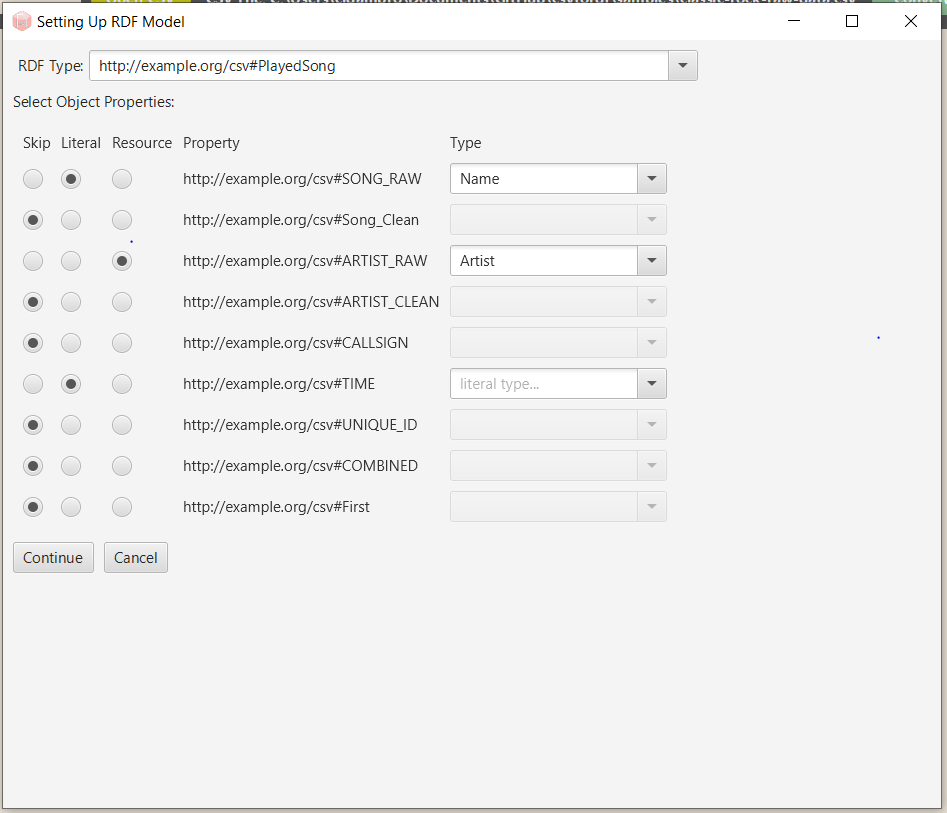
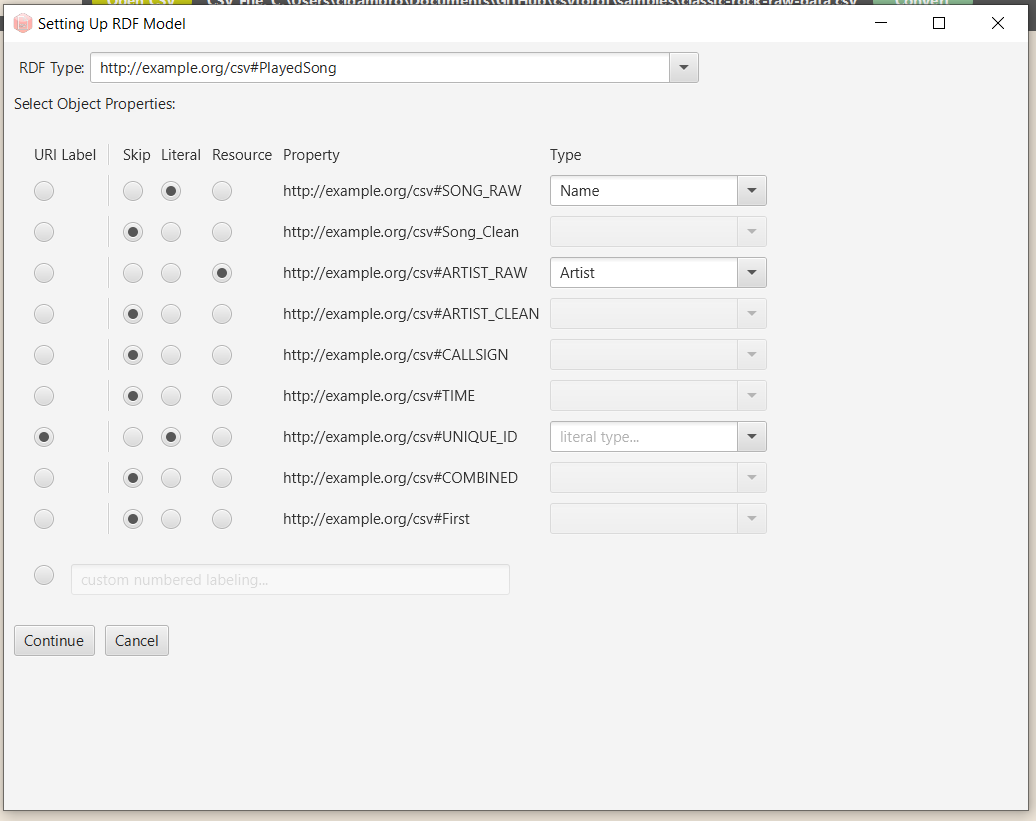
Allow custom URIs
Allow defining a property to be the URI, or a custom
numbering label instead of "res".
Updated README accordingly.

diff --git a/src/csvtordf/main/CsvToRdf.java b/src/csvtordf/main/CsvToRdf.java
@@ -60,11 +60,13 @@ class PropertyMetadata {
   public final RDFDatatype literalType;
   public final String objectType;
   public boolean isSkipped;
+  public boolean useAsLabel;
   public PropertyMetadata (boolean isLiteral, RDFDatatype literalType, String objectType) {
     this.isLiteral = isLiteral;
     this.literalType = literalType;
     this.objectType = objectType;
     this.isSkipped = false;
+    this.useAsLabel = false;
   }
 }
 
@@ -76,16 +78,18 @@ class PropertyMetadata {
 class MultiThreadCsvProcessor implements Callable<Void> {
   private final String[] lines;
   private final String prefix;
+  private final String label;
   private final int startNum, endNum;
   private Model model;
   private final ArrayList<Property> properties;
   private final ArrayList<PropertyMetadata> propData;
   private final String rdfType;
 
-  public MultiThreadCsvProcessor(Model model, String prefix, ArrayList<Property> properties, ArrayList<PropertyMetadata> propData, String rdfType,
+  public MultiThreadCsvProcessor(Model model, String prefix, String label, ArrayList<Property> properties, ArrayList<PropertyMetadata> propData, String rdfType,
 		                 String[] lines, int startNum, int endNum) {
     this.model = model;
     this.prefix = prefix;
+    this.label = label;
     this.properties = properties;
     this.propData = propData;
     this.rdfType = rdfType;
@@ -98,12 +102,27 @@ class MultiThreadCsvProcessor implements Callable<Void> {
     int arrayLength = lines.length;
     // Do as much parsing outside the critical section as possible
     String[][] tokens = new String[arrayLength][];
+    String[] labels = new String[arrayLength];
+    int labelIdx = -1;
+    // See if any property is set to be used as URI label
+    for (int i = 0; i < propData.size(); i++) {
+        if (propData.get(i).useAsLabel) {
+            labelIdx = i;
+            break;
+        }
+    }
     for (int i = startNum; i <= endNum; i++) {
       tokens[i % arrayLength] = lines[i % arrayLength].split(",(?=(?:[^\"]*\"[^\"]*\")*[^\"]*$)", -1);
       if (tokens[i % arrayLength].length < properties.size()) {
         throw new Exception("Line " + (i+1) + " too short, should contain " + properties.size() + " fields");
       } else if (tokens[i % arrayLength].length > properties.size()) {
         throw new Exception("Line " + (i+1) + " too long, should contain " + properties.size() + " fields");
+      }
+
+      if (labelIdx >= 0) {
+          labels[i % arrayLength] = prefix + tokens[i % arrayLength][labelIdx];
+      } else {
+          labels[i % arrayLength] = prefix + this.label + i;
       }
     }
 
@@ -120,9 +139,8 @@ class MultiThreadCsvProcessor implements Callable<Void> {
         rdfClass = model.createResource();
       }
       for (int i = startNum; i <= endNum; i++) {
-        if (CsvToRdf.g_verbosity >= 2) System.out.println("    Res " + i + ": " + Arrays.toString(tokens[i % arrayLength]));
         //The row is the subject
-        Resource instance = model.createResource(prefix + "res" + i);
+        Resource instance = model.createResource(labels[i % arrayLength]);
         if (!rdfType.equals("")) {
           instance.addProperty(RDF.type, rdfClass);
         }
@@ -177,6 +195,7 @@ public class CsvToRdf extends Object {
   private Set<Property> skipProps = new HashSet<Property>();
   private String prefix = "http://example.org/csv#";
   private String rdfType = prefix + "CsvNode";
+  private String uriLabel = "line";
 
   // Set once model is loaded the first time
   private boolean initialized = false;
@@ -397,14 +416,14 @@ public class CsvToRdf extends Object {
         num++;
         if (num % BATCH_SIZE == 0) {
           jobResults.add(service.submit(
-              new MultiThreadCsvProcessor(model, prefix, properties, propData, rdfType,
+              new MultiThreadCsvProcessor(model, prefix, uriLabel, properties, propData, rdfType,
                                           linesArray, num - BATCH_SIZE, num - 1)));
         }
       }
       // Launch any remaining
       if (num % BATCH_SIZE != 0) {
         jobResults.add(service.submit(
-            new MultiThreadCsvProcessor(model, prefix, properties, propData, rdfType,
+            new MultiThreadCsvProcessor(model, prefix, uriLabel, properties, propData, rdfType,
                                         linesArray, (num / BATCH_SIZE) * BATCH_SIZE, num - 1)));
       }
       // Wait for completion
@@ -477,6 +496,20 @@ public class CsvToRdf extends Object {
     int idx = properties.indexOf(property);
     if (idx >= 0) {
         propData.get(idx).isSkipped = true;
+    }
+  }
+
+  /**
+   *
+   * Mark a property to be used as the label for the URI.
+   *
+   * @param property Property to use value of for labelling
+   *
+   */
+  public void markAsLabel(Property property) {
+    int idx = properties.indexOf(property);
+    if (idx >= 0) {
+        propData.get(idx).useAsLabel = true;
     }
   }
 
@@ -595,6 +628,15 @@ public class CsvToRdf extends Object {
       // TBD: add prefix to model?
     }
     rdfType = p;
+  }
+
+  /**
+   * Set the URI label to use (will be numbered per line)
+   *
+   * @ param l Label to use.
+   */
+  public void setUriLabel(String l) {
+    uriLabel = l;
   }
 
   /**

diff --git a/src/csvtordf/main/CsvWizard.java b/src/csvtordf/main/CsvWizard.java
@@ -50,6 +50,7 @@ import javafx.scene.text.Text;
 import javafx.stage.FileChooser;
 import javafx.stage.Screen;
 import javafx.stage.Stage;
+import javafx.geometry.Orientation;
 import javafx.event.*;
 
 // Jena Imports
@@ -582,13 +583,18 @@ public class CsvWizard extends Application {
         grid.setHgap(10);
         grid.setVgap(10);
         grid.setPadding(new Insets(10, 10, 10, 10));
-        grid.addRow(0, new Label("Skip"), new Label("Literal"), new Label("Resource"), new Label("Property"), new Label("Type"));
+        grid.addRow(0, new Label("URI Label"), new Separator(Orientation.VERTICAL), new Label("Skip"), new Label("Literal"), new Label("Resource"), new Label("Property"), new Label("Type"));
         ArrayList<ToggleGroup> toggleGroupList = new ArrayList<>();
         ArrayList<ComboBox<String>> textFieldList = new ArrayList<>();
         ArrayList<Property> properties = csvHandler.getProperties();
-        for (int i = 0; i < properties.size(); i++) {
-            Property property = properties.get(i);
+        ToggleGroup labelGroup = new ToggleGroup();
+        int pIdx = 0;
+        for (pIdx = 0; pIdx < properties.size(); pIdx++) {
+            Property property = properties.get(pIdx);
             // Add row for each property
+            RadioButton labelRb = new RadioButton();
+            labelRb.setUserData(property.toString());
+            labelRb.setToggleGroup(labelGroup);
             ToggleGroup tg = new ToggleGroup();
             RadioButton r1 = new RadioButton();
             r1.setUserData("Skip");
@@ -644,10 +650,30 @@ public class CsvWizard extends Application {
                     }
                 }
             });
-            grid.addRow(i + 1, r1, r2, r3, new Label(property.toString()), cb);
+            grid.addRow(pIdx + 1, labelRb, new Separator(Orientation.VERTICAL), r1, r2, r3, new Label(property.toString()), cb);
         }
+        RadioButton labRb = new RadioButton();
+        labRb.setUserData("CUSTOM");
+        labRb.setSelected(true);
+        labRb.setToggleGroup(labelGroup);
+        TextField customLabelField = new TextField();
+        customLabelField.setPromptText("custom numbered labeling...");
+        customLabelField.setPrefColumnCount(30);
+        labRb.selectedProperty().addListener(new ChangeListener<Boolean>() {
+            @Override
+            public void changed(ObservableValue<? extends Boolean> obs, Boolean wasSel, Boolean isSel) {
+                if (isSel) { customLabelField.setDisable(false); }
+                else if (wasSel) { customLabelField.setDisable(true); }
+            }
+        });
+        HBox customLabelHbox = new HBox(labRb, customLabelField);
+        customLabelHbox.setSpacing(10);
+        customLabelHbox.setPadding(new Insets(10));
+        VBox scrollVbox = new VBox(grid, customLabelHbox);
+        scrollVbox.setSpacing(10);
+        scrollVbox.setPadding(new Insets(10));
         ScrollPane hScrollPane = new ScrollPane();
-        hScrollPane.setContent(grid);
+        hScrollPane.setContent(scrollVbox);
         hScrollPane.setPannable(true);
 
         VBox setupVbox = new VBox();
@@ -678,10 +704,14 @@ public class CsvWizard extends Application {
                     String rdfType = rdfTypeField.getEditor().getText();
                     csvHandler.setRdfType(rdfType);
 
+                    // Used to determine URI labeling
+                    String labelProp = labelGroup.getSelectedToggle().getUserData().toString();
+
                     int i = 0;
                     for (Property property : properties) {
                         String propData = toggleGroupList.get(i).getSelectedToggle().getUserData().toString();
                         String propType = textFieldList.get(i).getEditor().getText();
+
                         switch (propData) {
                             case "Skip":
                                 csvHandler.markSkipped(property);
@@ -699,11 +729,21 @@ public class CsvWizard extends Application {
                                 csvHandler.setDatatypes(property, true, propType);
                                 break;
                         }
+
+                        if (property.toString().equals(labelProp)) {
+                            System.err.println("Using for label: " + property.toString());
+                            csvHandler.markAsLabel(property); // Use this property for URI naming
+                        }
+
                         // TODO: Handle setting Resource properties in CsvToRdf
                         System.out.println(property.toString() + " -> " + propData + " (" + propType + ")");
                         i++;
                     }
 
+                    // Determine URI labeling to use
+                    if (labelProp.equals("CUSTOM") && !customLabelField.getText().isEmpty()) {
+                        csvHandler.setUriLabel(customLabelField.getText());
+                    }
                     setupStage.close();
                     modelLoaded = true;
                 }

diff --git a/README.md b/README.md
@@ -62,7 +62,9 @@ The following augmentation can be made before conversion:
     - *SKIP* : Do not import this column into the RDF model.
     - *LITERAL* : The cell values for this property column contain data literals. An optional literal type may be selected for this property.
     - *RESOURCE* : The cell values for this property column refer to object resources. This will add new resources to the generated model. An optional RDF type may be specified for this property, which will be applied to all object resources of this property.
-
+- **SET URI Labeling** : Can determine the URI labeling convention in one of two ways:
+    - Selecting a property whose corresponding cell value will be used as the URI
+    - Define a custom label, which will have the CSV line number appended to it
 
 ## Protege <a name="protege"></a>
 Prebuilt plugin packages have been provided and tested with Protege 5.5.0. Simply place the JAR file
